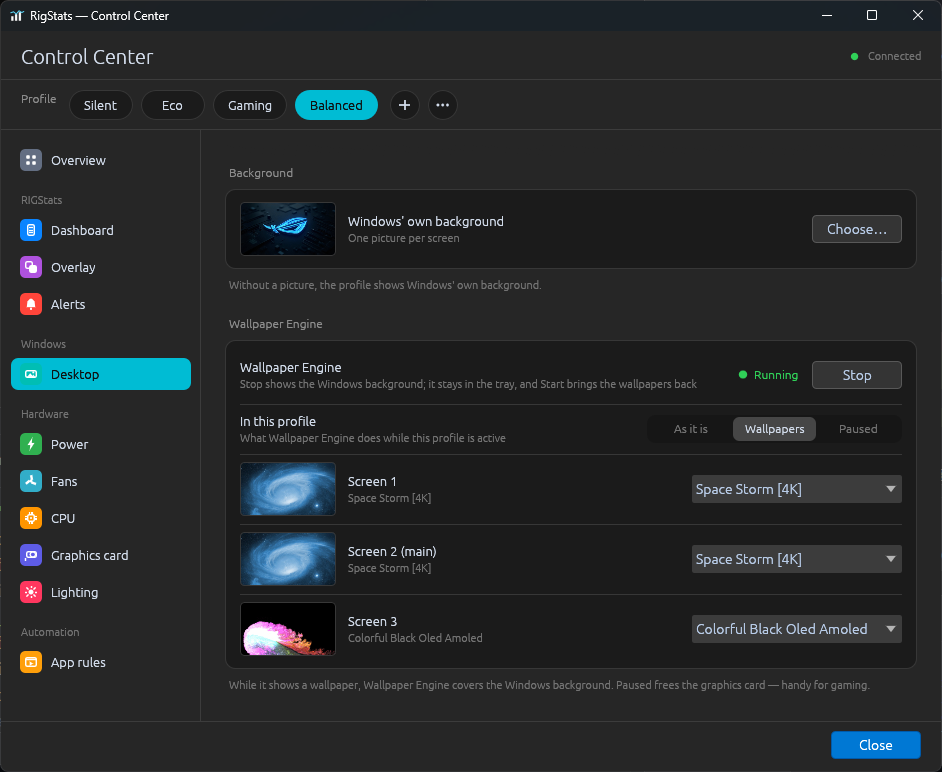
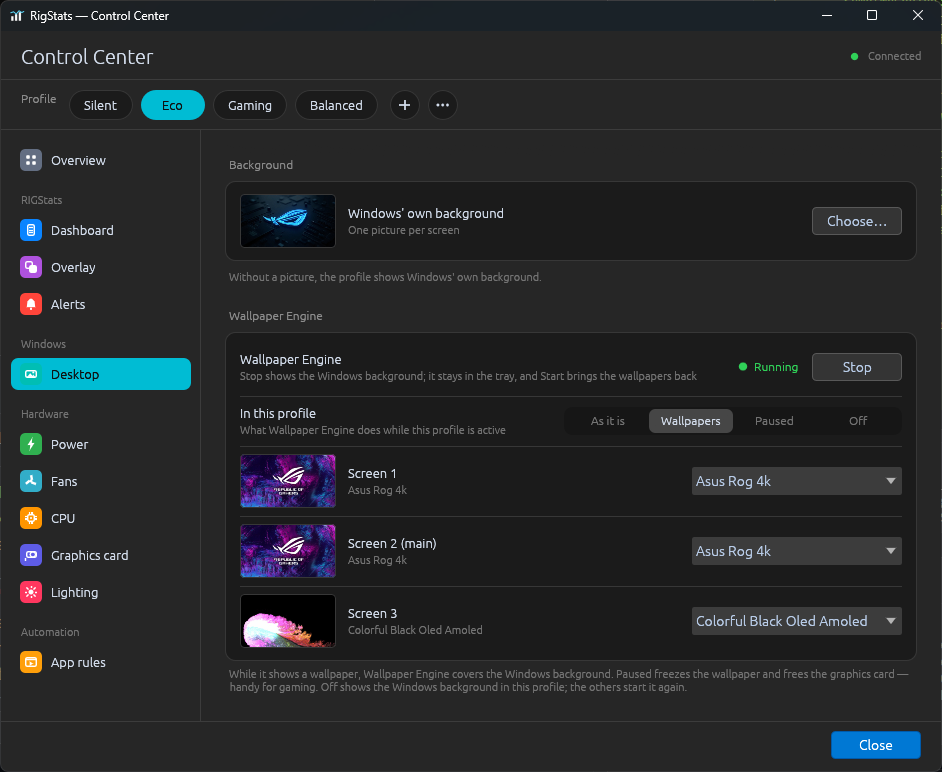
feat(profiles): turn Wallpaper Engine off for a profile
A fourth choice, Off: the profile stops Wallpaper Engine's wallpapers,
so its Windows background (or its own picture) shows, and the profiles
that use Wallpaper Engine play it again. The playback state (playing,
paused, stopped) is followed command by command, so going from Off to
Paused plays first and a frame shows.

Refs #306

diff --git a/website/index.html b/website/index.html
@@ -329,7 +329,7 @@
           <li><strong>Silent, Balanced, Gaming, Eco</strong> — switch from the tray, the header chip, or <strong>Ctrl+Alt+P</strong></li>
           <li><strong>App rules</strong> switch profile by themselves while a program runs — Gaming while your game is open, back when it closes; optionally only while it is in front</li>
           <li><strong>Overview</strong> shows everything a profile does at a glance; each tile opens its page</li>
-          <li>Each profile has its own <strong>dashboard look</strong> — accent colour, opacity, which panels and in what order, the overlay and its metrics, alert levels, even the desktop background, one picture per screen if you like, or Wallpaper Engine wallpapers per screen — paused while you game — previewed live as you change it</li>
+          <li>Each profile has its own <strong>dashboard look</strong> — accent colour, opacity, which panels and in what order, the overlay and its metrics, alert levels, even the desktop background, one picture per screen if you like, or Wallpaper Engine wallpapers per screen — paused while you game, or off in a profile of its own — previewed live as you change it</li>
           <li>Duplicate, rename and delete your own profiles; choose the Windows power plan each profile switches to</li>
           <li>Per-fan curves with draggable points, following CPU, GPU or a motherboard temperature</li>
           <li><strong>Same curve on</strong> runs several fans on one curve</li>

diff --git a/rigstats-backend/src/wallpaper_engine.rs b/rigstats-backend/src/wallpaper_engine.rs
@@ -30,8 +30,13 @@ use std::path::{Path, PathBuf};
 #[derive(Debug, Clone, PartialEq, Eq, Serialize, Deserialize)]
 #[serde(tag = "mode", rename_all = "camelCase")]
 pub enum WeChoice {
-    /// Pause every wallpaper (frees the graphics card).
+    /// Pause every wallpaper (frees the graphics card; the paused frame
+    /// stays on the desktop).
     Pause,
+    /// Stop its wallpapers: the Windows background (the profile's own
+    /// picture, if it has one) shows, and Wallpaper Engine waits in the tray
+    /// for a profile that uses it.
+    Off,
     /// Show these wallpapers: `path` is a wallpaper's `project.json`, per
     /// Windows monitor id.
     Show {
@@ -107,6 +112,10 @@ pub fn step(
             commands: vec![WeCommand::Pause],
             before: keep(before),
         },
+        Some(WeChoice::Off) => WeStep {
+            commands: vec![WeCommand::Stop],
+            before: keep(before),
+        },
         Some(WeChoice::Show { screens }) => {
             let mut commands = vec![WeCommand::Play];
             commands.extend(screens.iter().filter_map(|s| {
@@ -140,23 +149,62 @@ pub fn step(
     }
 }
 
-/// Drops commands that would change nothing, so a screen whose wallpaper
-/// stays isn't reloaded (it would flash): an `Open` for what `shown` already
-/// has on that screen (Wallpaper Engine writes its `config.json` on every
-/// change, so that is current), and a `Play`/`Pause` matching `paused`
-/// (`None` = not known, e.g. just after Wallpaper Engine started).
-pub fn prune(commands: Vec<WeCommand>, shown: &[WeSlot], paused: Option<bool>) -> Vec<WeCommand> {
-    commands
-        .into_iter()
-        .filter(|c| match c {
-            WeCommand::Pause => paused != Some(true),
-            WeCommand::Play => paused != Some(false),
-            WeCommand::Stop => true,
+/// Whether Wallpaper Engine's wallpapers play, are paused (frozen on the
+/// desktop) or stopped (the Windows background shows).
+#[derive(Debug, Clone, Copy, PartialEq, Eq)]
+pub enum Playback {
+    Playing,
+    Paused,
+    Stopped,
+}
+
+impl Playback {
+    /// What `command` leaves it in.
+    pub fn after(self, command: &WeCommand) -> Self {
+        match command {
+            WeCommand::Play => Playback::Playing,
+            WeCommand::Pause => Playback::Paused,
+            WeCommand::Stop => Playback::Stopped,
+            WeCommand::Open { .. } => self,
+        }
+    }
+}
+
+/// Fits the commands to what Wallpaper Engine does now, going through them
+/// in order: drops what would change nothing, so a screen whose wallpaper
+/// stays isn't reloaded (it would flash) — an `Open` for what `shown`
+/// already has on that screen (Wallpaper Engine writes its `config.json` on
+/// every change, so that is current) and a `Play`/`Pause`/`Stop` it is
+/// already in — and plays stopped wallpapers before pausing them, as a
+/// paused frame needs one to show. `state` is `None` when not known (just
+/// after Wallpaper Engine started).
+pub fn prune(
+    commands: Vec<WeCommand>,
+    shown: &[WeSlot],
+    state: Option<Playback>,
+) -> Vec<WeCommand> {
+    let mut state = state;
+    let mut out = Vec::new();
+    for c in commands {
+        let keep = match &c {
+            WeCommand::Play => state != Some(Playback::Playing),
+            WeCommand::Pause => {
+                if state == Some(Playback::Stopped) {
+                    out.push(WeCommand::Play);
+                }
+                state != Some(Playback::Paused)
+            }
+            WeCommand::Stop => state != Some(Playback::Stopped),
             WeCommand::Open { monitor, file } => !shown
                 .iter()
                 .any(|s| s.monitor == *monitor && s.file.eq_ignore_ascii_case(file)),
-        })
-        .collect()
+        };
+        state = Some(state.unwrap_or(Playback::Playing).after(&c));
+        if keep {
+            out.push(c);
+        }
+    }
+    out
 }
 
 /// A wallpaper in the user's Wallpaper Engine library.
@@ -592,7 +640,7 @@ mod tests {
         ];
         // Playing already, screen 0 shows A already: only screen 1 changes.
         assert_eq!(
-            prune(cmds.clone(), &shown, Some(false)),
+            prune(cmds.clone(), &shown, Some(Playback::Playing)),
             vec![open(1, "c.json")]
         );
         // Not known whether it plays: Play is sent.
@@ -600,16 +648,53 @@ mod tests {
             prune(cmds, &shown, None),
             vec![WeCommand::Play, open(1, "c.json")]
         );
-        assert!(prune(vec![WeCommand::Pause], &[], Some(true)).is_empty());
-        // Stop is the user's own click: always sent.
+        assert!(prune(vec![WeCommand::Pause], &[], Some(Playback::Paused)).is_empty());
+        // Stopping wallpapers that play: sent.
         assert_eq!(
-            prune(vec![WeCommand::Stop], &[], Some(false)),
+            prune(vec![WeCommand::Stop], &[], Some(Playback::Playing)),
             vec![WeCommand::Stop]
         );
         assert_eq!(
-            prune(vec![WeCommand::Pause], &[], Some(false)),
+            prune(vec![WeCommand::Pause], &[], Some(Playback::Playing)),
             vec![WeCommand::Pause]
         );
+        assert!(prune(vec![WeCommand::Stop], &[], Some(Playback::Stopped)).is_empty());
+    }
+
+    #[test]
+    fn off_stops_and_keeps_its_own_wallpapers() {
+        let s = step(
+            Some(&WeChoice::Off),
+            None,
+            || Some(vec![slot(0, "own.json")]),
+            map,
+        );
+        assert_eq!(s.commands, vec![WeCommand::Stop]);
+        assert_eq!(s.before, Some(vec![slot(0, "own.json")]));
+        let json = serde_json::to_string(&WeChoice::Off).unwrap();
+        assert_eq!(json, r#"{"mode":"off"}"#);
+    }
+
+    #[test]
+    fn from_off_to_paused_plays_first_so_a_frame_shows() {
+        assert_eq!(
+            prune(vec![WeCommand::Pause], &[], Some(Playback::Stopped)),
+            vec![WeCommand::Play, WeCommand::Pause]
+        );
+    }
+
+    #[test]
+    fn the_state_follows_each_command_in_turn() {
+        // Not known, then Stop, then Play: both sent; a second Play isn't.
+        assert_eq!(
+            prune(
+                vec![WeCommand::Stop, WeCommand::Play, WeCommand::Play],
+                &[],
+                None
+            ),
+            vec![WeCommand::Stop, WeCommand::Play]
+        );
+        assert_eq!(Playback::Paused.after(&WeCommand::Stop), Playback::Stopped);
     }
 
     #[test]

diff --git a/src-egui/src/app/desktop_background.rs b/src-egui/src/app/desktop_background.rs
@@ -7,7 +7,7 @@
 use crate::RigStatsApp;
 use rigstats_backend::debug;
 use rigstats_backend::desktop_background::{self, DesktopBackground};
-use rigstats_backend::wallpaper_engine::{self, Install, WeChoice, WeCommand};
+use rigstats_backend::wallpaper_engine::{self, Install, Playback, WeChoice, WeCommand};
 use rigstats_egui::lock_ext::LockSafe;
 use rigstats_egui::we_link::{WeAction, WeLink};
 use std::path::PathBuf;
@@ -32,9 +32,9 @@ pub(crate) struct DesktopBackgroundSync {
     we: Option<Install>,
     we_running: bool,
     we_checked: Option<Instant>,
-    /// Whether RIGStats last paused (`Some(true)`) or resumed it; `None`
+    /// What RIGStats last left it in (playing, paused, stopped); `None`
     /// until then, and again after it (re)started.
-    we_paused: Option<bool>,
+    we_playback: Option<Playback>,
     /// Whether it was found at the last check (`None` before the first):
     /// changes are logged once.
     we_found: Option<bool>,
@@ -117,7 +117,7 @@ impl DesktopBackgroundSync {
             we: None,
             we_running: false,
             we_checked: None,
-            we_paused: None,
+            we_playback: None,
             we_found: None,
             we_config_broken: false,
             link,
@@ -205,7 +205,7 @@ impl RigStatsApp {
                 if running {
                     debug::append_debug_log(&dir, "wallpaper engine: running");
                     sync.we_seen = None;
-                    sync.we_paused = None;
+                    sync.we_playback = None;
                 } else {
                     debug::log_warn(&dir, "wallpaper engine: not running (closed or crashed)");
                 }
@@ -256,8 +256,7 @@ impl RigStatsApp {
                 WeAction::Stop if sync.we_running => {
                     debug::append_debug_log(&dir, "wallpaper engine: stopped by the user");
                     sync.link.lock_safe().stopped = true;
-                    // Whatever plays next needs an explicit play.
-                    sync.we_paused = None;
+                    sync.we_playback = Some(Playback::Stopped);
                     let _ = sync
                         .tx
                         .send(Job::WallpaperEngine(install.clone(), vec![WeCommand::Stop]));
@@ -265,7 +264,7 @@ impl RigStatsApp {
                 WeAction::Resume | WeAction::Start if sync.we_running => {
                     debug::append_debug_log(&dir, "wallpaper engine: resumed by the user");
                     sync.link.lock_safe().stopped = false;
-                    sync.we_paused = Some(false);
+                    sync.we_playback = Some(Playback::Playing);
                     let _ = sync
                         .tx
                         .send(Job::WallpaperEngine(install.clone(), vec![WeCommand::Play]));
@@ -343,16 +342,12 @@ impl RigStatsApp {
                 _ => true,
             })
             .collect();
-        let commands = wallpaper_engine::prune(present, &config.selected, sync.we_paused);
+        let commands = wallpaper_engine::prune(present, &config.selected, sync.we_playback);
         for c in &commands {
-            match c {
-                WeCommand::Pause => sync.we_paused = Some(true),
-                WeCommand::Play => {
-                    sync.we_paused = Some(false);
-                    sync.link.lock_safe().stopped = false;
-                }
-                WeCommand::Stop | WeCommand::Open { .. } => {}
-            }
+            let now = sync.we_playback.unwrap_or(Playback::Playing).after(c);
+            sync.we_playback = Some(now);
+            // The state row says "Stopped" in a profile that turns it off.
+            sync.link.lock_safe().stopped = now == Playback::Stopped;
         }
         if !commands.is_empty() {
             let _ = sync.tx.send(Job::WallpaperEngine(install, commands));

diff --git a/src-egui/src/windows/profile_look.rs b/src-egui/src/windows/profile_look.rs
@@ -430,6 +430,7 @@ enum WeMode {
     Leave,
     Show,
     Pause,
+    Off,
 }
 
 /// The Wallpaper Engine group (#306): leave it alone, show a wallpaper per
@@ -497,6 +498,7 @@ fn wallpaper_engine_group(
         None => WeMode::Leave,
         Some(WeChoice::Show { .. }) => WeMode::Show,
         Some(WeChoice::Pause) => WeMode::Pause,
+        Some(WeChoice::Off) => WeMode::Off,
     };
     let screens = &picker.screens;
     let pictures = &mut picker.pictures;
@@ -506,7 +508,7 @@ fn wallpaper_engine_group(
         ui,
         dc,
         Some("Wallpaper Engine"),
-        Some("While it shows a wallpaper, Wallpaper Engine covers the Windows background. Paused frees the graphics card — handy for gaming."),
+        Some("While it shows a wallpaper, Wallpaper Engine covers the Windows background. Paused freezes the wallpaper and frees the graphics card — handy for gaming. Off shows the Windows background in this profile; the others start it again."),
         |g| {
             let state_sub = match button {
                 Some((_, WeAction::Stop)) => {
@@ -544,6 +546,7 @@ fn wallpaper_engine_group(
                         (WeMode::Leave, "As it is"),
                         (WeMode::Show, "Wallpapers"),
                         (WeMode::Pause, "Paused"),
+                        (WeMode::Off, "Off"),
                     ],
                 );
             });
@@ -551,6 +554,7 @@ fn wallpaper_engine_group(
             look.wallpaper_engine = match (mode, look.wallpaper_engine.take()) {
                 (WeMode::Leave, _) => None,
                 (WeMode::Pause, _) => Some(WeChoice::Pause),
+                (WeMode::Off, _) => Some(WeChoice::Off),
                 (WeMode::Show, Some(show @ WeChoice::Show { .. })) => Some(show),
                 (WeMode::Show, _) => Some(WeChoice::Show {
                     screens: screens
@@ -644,6 +648,7 @@ pub fn desktop_summary(bg: Option<&DesktopBackground>, we: Option<&WeChoice>) ->
     match we {
         None => picture,
         Some(WeChoice::Pause) => format!("{picture} · Wallpaper Engine paused"),
+        Some(WeChoice::Off) => format!("{picture} · Wallpaper Engine off"),
         Some(WeChoice::Show { .. }) => "Wallpaper Engine".to_owned(),
     }
 }
@@ -1156,6 +1161,10 @@ mod tests {
         assert_eq!(
             desktop_summary(None, Some(&WeChoice::Pause)),
             "Windows' own background · Wallpaper Engine paused"
+        );
+        assert_eq!(
+            desktop_summary(None, Some(&WeChoice::Off)),
+            "Windows' own background · Wallpaper Engine off"
         );
         assert_eq!(
             desktop_summary(

diff --git a/docs/troubleshooting.md b/docs/troubleshooting.md
@@ -139,7 +139,7 @@ Yes. Open Settings and change Display Profile. Save to apply immediately and per
 
 ## Wallpaper Engine
 
-The Control Center's **Desktop** page can switch [Wallpaper Engine](https://www.wallpaperengine.io/) per profile: leave it alone, show a wallpaper on each screen, or pause it. RIGStats doesn't draw live wallpapers itself; it sends Wallpaper Engine the commands of its [command line](https://help.wallpaperengine.io/en/functionality/cli.html). Every change of state is written to the log (**Status → Log**, lines starting with `wallpaper engine:`), and **Status → Health** has a Wallpaper Engine row.
+The Control Center's **Desktop** page can switch [Wallpaper Engine](https://www.wallpaperengine.io/) per profile: leave it alone, show a wallpaper on each screen, pause it (the frame freezes), or turn it **Off** for that profile (the Windows background shows, and the profiles that use it start it again). RIGStats doesn't draw live wallpapers itself; it sends Wallpaper Engine the commands of its [command line](https://help.wallpaperengine.io/en/functionality/cli.html). Every change of state is written to the log (**Status → Log**, lines starting with `wallpaper engine:`), and **Status → Health** has a Wallpaper Engine row.
 
 - **The page says "Not installed"**: RIGStats finds Wallpaper Engine through the path it registers for itself (`HKCU\Software\WallpaperEngine\installPath`). **Get it on Steam** opens its store page (in the Steam client when Steam is installed). After installing, start it once so it registers. The log says `wallpaper engine: not installed`, or `found at …` once it's there.
 - **"Not running" / it doesn't start**: click **Start** on the Desktop page, or start it from the Start menu. The profile's choice applies as soon as it runs; until then nothing is sent. The log says `wallpaper engine: starting …`, then `running` within a few seconds. If it can't be started, the page shows the reason in red under **Last problem**, and the log has `wallpaper engine: couldn't start … — <reason>`. If it hasn't come up 30 seconds after **Start**, the page says so under **Last problem** (log: `started, but not running 30 s later`); start it once by itself: Wallpaper Engine may be waiting for an answer (an update, or a question after a crash).

diff --git a/docs/architecture.md b/docs/architecture.md
@@ -456,7 +456,7 @@ engine — it drives Wallpaper Engine through its documented command line
 (`wallpaper64.exe -control openWallpaper -file <project.json> -monitor N`,
 `pause`, `play`; help.wallpaperengine.io/en/functionality/cli.html), which
 only reaches a running instance. `ProfileLook::wallpaper_engine` is `None`
-(leave it alone), `Pause` (frees the graphics card — for Gaming) or `Show`
+(leave it alone), `Pause` (freezes the frame, frees the graphics card — for Gaming), `Off` (`-control stop`: the Windows background — the profile's own picture — shows; the next profile that uses it plays it again) or `Show`
 (a `project.json` per Windows monitor id). `rigstats-backend/src/wallpaper_engine.rs`:
 `find` (`HKCU\Software\WallpaperEngine\installPath`), `Install::library` (the
 Workshop folder `steamapps\workshop\content\431960` in the Steam library
@@ -468,7 +468,7 @@ Wallpaper Engine rewrites it on every change), `is_running` (process list).
 The pure `step` mirrors the Windows background's: the first time a profile
 pauses or shows wallpapers, Wallpaper Engine's own are kept in
 `Settings::wallpaper_engine_before`; a profile that leaves it alone resumes it and
-reopens its own. `prune` drops commands that change nothing (a screen that
+reopens its own. `prune` follows the playback state (`Playback`: playing, paused, stopped) command by command, plays stopped wallpapers before pausing them, and drops commands that change nothing (a screen that
 already shows the wallpaper isn't reloaded, `play` isn't sent while playing).
 The main app's `sync_wallpaper_engine` checks every 5 s whether it is installed
 and running and applies the profile's choice again when it starts (after
